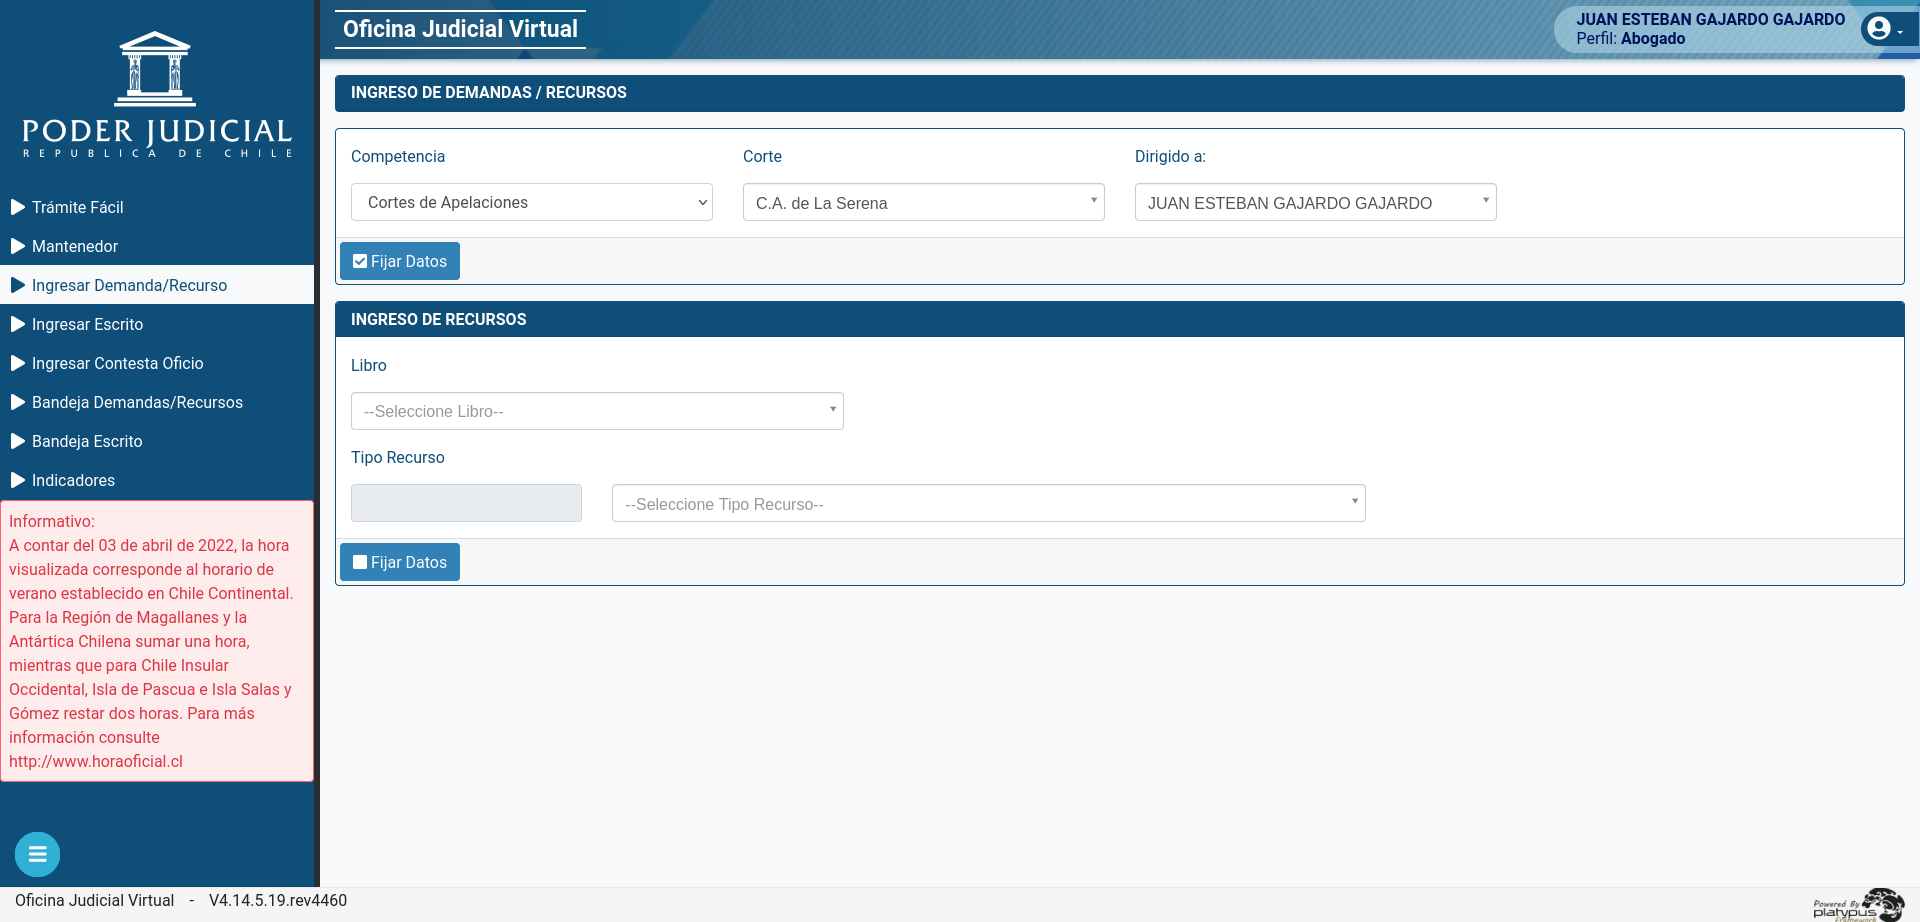
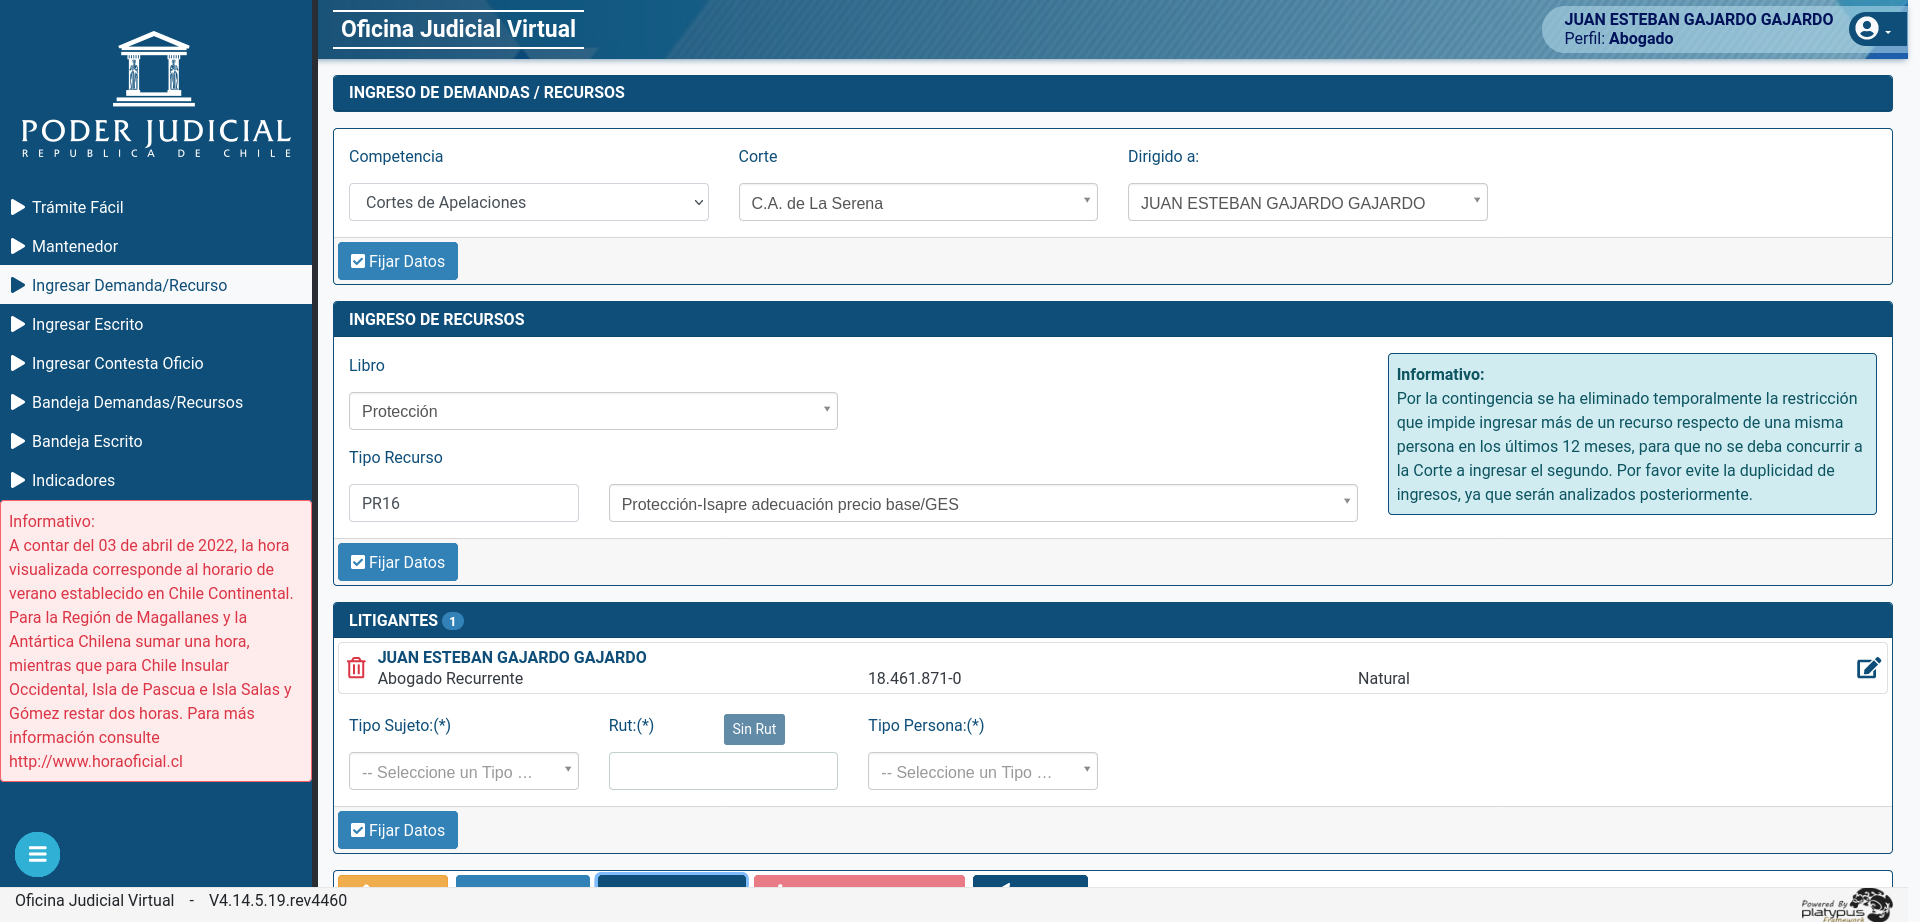
Insert abogado recurrente data

diff --git a/rp_script/utils.py b/rp_script/utils.py
@@ -1,3 +1,4 @@
+import os
 import time
 
 from selenium import webdriver
@@ -82,7 +83,7 @@ class SeleniumBot():
         self.browser.execute_script("arguments[0].scrollIntoView();", ingreso_form_display_btn)
         self.browser.execute_script("arguments[0].click();", ingreso_form_display_btn)
 
-        # --- working, iterate just once till here
+        # --- Iterate just once till here
         print("Start filling form for upload...")
         
         # self.browser.implicitly_wait(10)
@@ -107,10 +108,49 @@ class SeleniumBot():
         corte = self.browser.find_element(By.XPATH, "//div[@id='select2-result-label-27']")
         corte.click()
 
-        fijar = self.browser.find_element(By.XPATH, "//input[@id='id_check_fijar_mod_tribunal']")
-        fijar.click()
+        fijar_competencia_btn = self.browser.find_element(By.XPATH, "//input[@id='id_check_fijar_mod_tribunal']")
+        fijar_competencia_btn.click()
 
+        libro_dropdown = WebDriverWait(self.browser, timeout=10).until(
+            EC.element_to_be_clickable(self.browser.find_element(By.XPATH, "//div[@id='s2id_autogen40']/a[1]"))
+        )
+        libro_dropdown.click()
+        libro = self.browser.find_element(By.XPATH, "//div[@id='select2-result-label-50']")
+        libro.click()
 
+        tipo_recurso_dropdown = WebDriverWait(self.browser, timeout=10).until(
+            EC.element_to_be_clickable(self.browser.find_element(By.XPATH, "//div[@id='s2id_autogen42']/a[1]"))
+        )
+        tipo_recurso_dropdown.click()
+        tipo_recurso = self.browser.find_element(By.XPATH, "//div[@id='select2-result-label-57']")
+        tipo_recurso.click()
+
+        fijar_materia_btn = self.browser.find_element(By.XPATH, "//input[@id='id_check_fijar_mod_materia']")
+        fijar_materia_btn.click()
+
+        # --- Litigantes
+        tipo_sujeto_dropdown = WebDriverWait(self.browser, timeout=10).until(
+            EC.element_to_be_clickable(self.browser.find_element(By.XPATH, "//div[@id='s2id_autogen59']/a[1]"))
+        )
+        tipo_sujeto_dropdown.click()
+        ab_recurrente = self.browser.find_element(By.XPATH, "//div[@id='select2-result-label-65']")
+        ab_recurrente.click()
+
+        rut_input = WebDriverWait(self.browser, timeout=10).until(
+            EC.element_to_be_clickable(self.browser.find_element(By.XPATH, "//input[@data-bind='value: rutSel, disable:bloqueoRutComp']"))
+        )
+        rut_input.send_keys(str(os.environ['rut']) + Keys.RETURN)
+
+        # self.browser.implicitly_wait(5)
+        time.sleep(5)
+
+        fijar_datos_ab_recurrente_btn = self.browser.find_element(By.XPATH, "//input[@id='id_check_fijar_mod_lit']")
+        fijar_datos_ab_recurrente_btn.click()
+
+        agreagar_litigante_btn = self.browser.find_element(By.XPATH, "//button[@data-bind='click: validarIngresoLitigante']")
+        agreagar_litigante_btn.click()
+
+        # tipo_persona_input = WebDriverWait(self.browser.find_element(By.XPATH, ""))
 
         # Proof of work
         self.browser.save_screenshot("proof_of_work.png")
